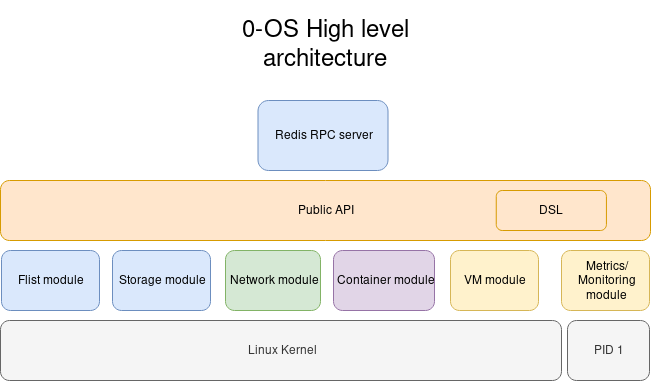
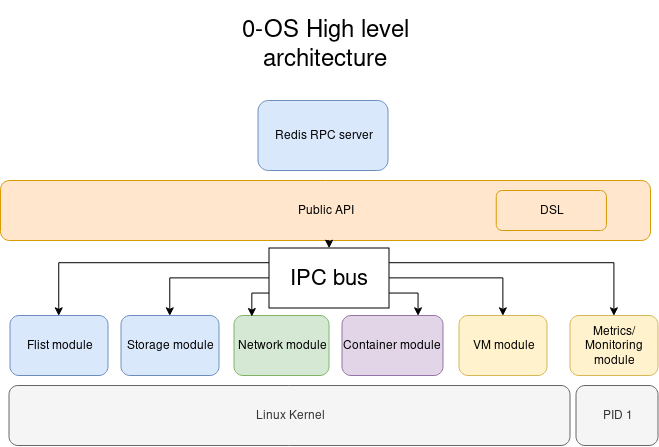
Squashed 4 commits from 2019-03-19
- update architecture diagram
- Initial zbus md file
- update specs
- add ipc diagram to zbus.md

diff --git a/specs/zbus.md b/specs/zbus.md
@@ -1,0 +1,51 @@
+# Requirements
+- A component can register one or more `objects`
+- Each object can have a global name, where clients can use to call `methods` on the registered objects
+- Objects interface need to explicitly set a version. Multiple versions of the same interface can be running at the same time
+- A client, need to specify the object name, and interface version. A Proxy object can be used to call the remote methods
+- Support mocked proxies to allow local unit tests without the need for the remove object
+
+## Suggested message brokers
+- Redis
+- Disque
+- Rabbitmq
+
+> I think disque is a really nice option
+
+## Overview
+![ipc overview](../assets/ipc.png)
+
+## Example
+
+Server code
+```go
+//server code should be something like that
+type Service struct{}
+
+func (s *Service) MyMethod(a int, b string) (string, error) {
+    //do something
+    return "hello", nil
+}
+
+func main() {
+    server = zbus.New() // config ?
+    var s Service
+    server.Register("my-service", "1.0", s)
+
+    server.Run()
+}
+```
+
+Client code
+```go
+
+func main() {
+    client = zbus.Client() // config?
+
+    //client is a low level client we should have some stubs on top of that that hide the call
+
+    c := ServiceStub{client}
+
+    res, err := c.MyMethod(10, "hello")
+}
+```
